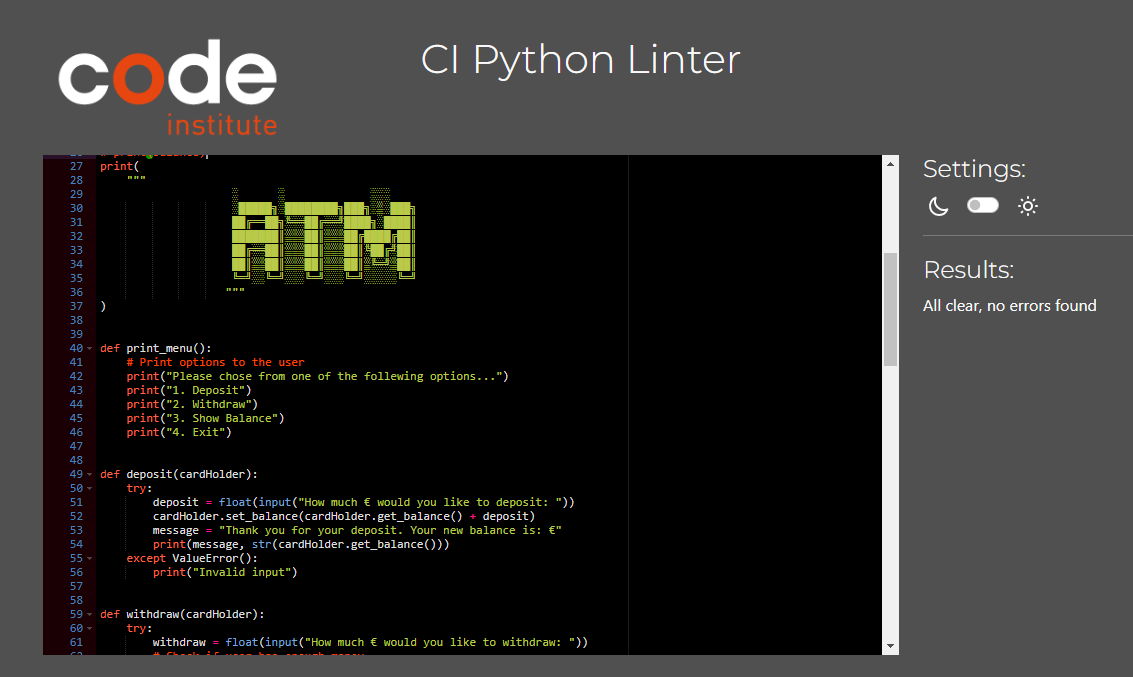
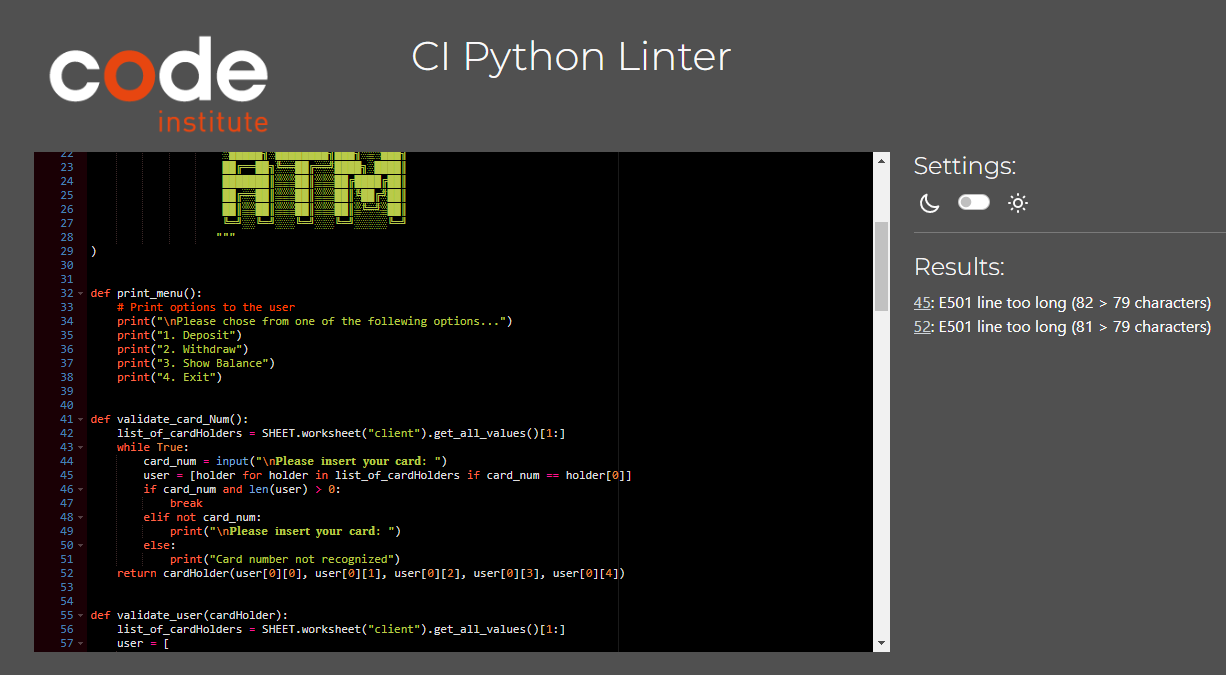
updating README

Changed region(s): [[0.0, 0.0622, 0.9885, 0.9644], [0.3398, 0.0622, 0.6487, 0.1244]]

diff --git a/run.py b/run.py
@@ -17,7 +17,6 @@ GSPREAD_CLIENT = gspread.authorize(SCOPED_CREDS)
 SHEET = GSPREAD_CLIENT.open("client_database")
 
 
-
 print(
     """
                     ░█████╗░████████╗███╗░░░███╗
@@ -30,117 +29,138 @@ print(
 )
 
 
-
 def print_menu():
-  # Print options to the user
-  print("\nPlease chose from one of the follewing options...")
-  print("1. Deposit")
-  print("2. Withdraw")
-  print("3. Show Balance")
-  print("4. Exit")
+    # Print options to the user
+    print("\nPlease chose from one of the follewing options...")
+    print("1. Deposit")
+    print("2. Withdraw")
+    print("3. Show Balance")
+    print("4. Exit")
+
 
 def validate_card_Num():
     list_of_cardHolders = SHEET.worksheet("client").get_all_values()[1:]
     while True:
-      card_num = input("\nEnter card number: ")
-      user = [ holder for holder in list_of_cardHolders if card_num == holder[0]]
-      if card_num and len(user) > 0:
-        break
-      elif not card_num:
-        print("\n𝐏𝐥𝐞𝐚𝐬𝐞 𝐢𝐧𝐬𝐞𝐫𝐭 𝐲𝐨𝐮𝐫 𝐝𝐞𝐛𝐢𝐭 𝐜𝐚𝐫𝐝: ")
-      else:
-        print("Card number not recognized")
+        card_num = input("\n𝐏𝐥𝐞𝐚𝐬𝐞 𝐢𝐧𝐬𝐞𝐫𝐭 𝐲𝐨𝐮𝐫 𝐜𝐚𝐫𝐝: ")
+        user = [holder for holder in list_of_cardHolders if card_num == holder[0]]
+        if card_num and len(user) > 0:
+            break
+        elif not card_num:
+            print("\n𝐏𝐥𝐞𝐚𝐬𝐞 𝐢𝐧𝐬𝐞𝐫𝐭 𝐲𝐨𝐮𝐫 𝐜𝐚𝐫𝐝: ")
+        else:
+            print("Card number not recognized")
     return cardHolder(user[0][0], user[0][1], user[0][2], user[0][3], user[0][4])
 
+
 def validate_user(cardHolder):
-  list_of_cardHolders = SHEET.worksheet("client").get_all_values()[1:]
-  user = [holder for holder in list_of_cardHolders if cardHolder.get_cardNum() == holder[0]]
-  tries = 0
-  while tries < 3:
-    tries += 1
-    pin_code = input("\n𝗣𝗹𝗲𝗮𝘀𝗲 𝗲𝗻𝘁𝗲𝗿 𝘆𝗼𝘂𝗿 𝗣𝗜𝗡: ")
-    if not pin_code:
-      print("\nPlease enter PIN, try again.")
-      status = False
-    elif not pin_code.isnumeric():
-      print("Only numbers allowed")
-      status = False
-    elif pin_code.isnumeric() and pin_code == user[0][1]:
-      status = True
-      break
-    elif tries == 3:
-      print("Sorry you've exceeded you trial limit")
-      status = False
-      break
-    else:
-      print("Incorrect PIN.")
-      status = False
-    
-  return status
+    list_of_cardHolders = SHEET.worksheet("client").get_all_values()[1:]
+    user = [
+        holder
+        for holder in list_of_cardHolders
+        if cardHolder.get_cardNum() == holder[0]
+    ]
+    tries = 0
+    while tries < 3:
+        tries += 1
+        pin_code = input("\n𝗣𝗹𝗲𝗮𝘀𝗲 𝗲𝗻𝘁𝗲𝗿 𝘆𝗼𝘂𝗿 𝗣𝗜𝗡: ")
+        if not pin_code:
+            print("\nPlease enter PIN, try again.")
+            status = False
+        elif not pin_code.isnumeric():
+            print("Only numbers allowed")
+            status = False
+        elif pin_code.isnumeric() and pin_code == user[0][1]:
+            status = True
+            break
+        elif tries == 3:
+            print("Sorry you've exceeded you trial limit")
+            status = False
+            break
+        else:
+            print("Incorrect PIN.")
+            status = False
+    return status
 
 
 def deposit(cardHolder):
-  list_of_cardHolders = SHEET.worksheet("client").get_all_values()[1:]
-  user = [holder for holder in list_of_cardHolders if cardHolder.get_cardNum() == holder[0]]
-  while True:
-    amount = input("How much would you like to deposit: €")
-    if not amount:
-      print("Please enter an amount, try again.")
-      status = False
-    elif not amount.isnumeric():
-      print("Enter only amount in figures.")
-      status = False
-    else:
-      status = True
-      new_balance = float(cardHolder.get_balance()) + float(amount)
-      cardHolder.set_balance(new_balance)
-      cur_user = SHEET.worksheet('client').find(user[0][0])
-      SHEET.worksheet('client').update_cell(cur_user.row, 5, new_balance)
-      print("\nSuccessfully deposited to your account.")
-      break
-  return True
+    list_of_cardHolders = SHEET.worksheet("client").get_all_values()[1:]
+    user = [
+        holder
+        for holder in list_of_cardHolders
+        if cardHolder.get_cardNum() == holder[0]
+    ]
+    while True:
+        amount = input("How much would you like to deposit: € ")
+        if not amount:
+            print("Please enter an amount, try again.")
+            status = False
+        elif not amount.isnumeric():
+            print("Enter only amount in figures.")
+            status = False
+        else:
+            status = True
+            new_balance = float(cardHolder.get_balance()) + float(amount)
+            cardHolder.set_balance(new_balance)
+            cur_user = SHEET.worksheet("client").find(user[0][0])
+            SHEET.worksheet("client").update_cell(cur_user.row, 5, new_balance)
+            print("\nSuccessfully deposited to your account.")
+            break
+    return True
+
 
 def withdraw(cardHolder):
-  list_of_cardHolders = SHEET.worksheet("client").get_all_values()[1:]
-  user = [holder for holder in list_of_cardHolders if cardHolder.get_cardNum() == holder[0]]
-  while True:
-    amount = input("How much would you like to withdraw: €")
-    if not amount:
-      print("Please enter an amount you would like to withdraw, try again.")
-      status = False
-    elif not amount.isnumeric():
-      print("Enter only amount in figures.")
-      status = False
-    elif float(cardHolder.get_balance()) < float(amount):
-      print("Insufficient balance. Try again.")
-      status = False
-
-    else:
-      status = True
-      new_balance = float(cardHolder.get_balance()) - float(amount)
-      cardHolder.set_balance(new_balance)
-      cur_user = SHEET.worksheet('client').find(user[0][0])
-      SHEET.worksheet('client').update_cell(cur_user.row, 5, new_balance)
-      print("Successfully withdraw from your account.")
-      break
-  return True
+    list_of_cardHolders = SHEET.worksheet("client").get_all_values()[1:]
+    user = [
+        holder
+        for holder in list_of_cardHolders
+        if cardHolder.get_cardNum() == holder[0]
+    ]
+    while True:
+        amount = input("How much would you like to withdraw: € ")
+        if not amount:
+            print("Please enter an amount to withdraw, try again.")
+            status = False
+        elif not amount.isnumeric():
+            print("Enter only amount in figures.")
+            status = False
+        elif float(cardHolder.get_balance()) < float(amount):
+            print("Insufficient balance. Try again.")
+            status = False
+        else:
+            status = True
+            new_balance = float(cardHolder.get_balance()) - float(amount)
+            cardHolder.set_balance(new_balance)
+            cur_user = SHEET.worksheet("client").find(user[0][0])
+            SHEET.worksheet("client").update_cell(cur_user.row, 5, new_balance)
+            print("Successfully withdraw from your account.")
+            break
+    return True
 
 
 def show_balance(cardHolder):
-  list_of_cardHolders = SHEET.worksheet("client").get_all_values()[1:]
-  user = [holder for holder in list_of_cardHolders if cardHolder.get_cardNum() == holder[0]]
-  return user[0][4]
+    list_of_cardHolders = SHEET.worksheet("client").get_all_values()[1:]
+    user = [
+        holder
+        for holder in list_of_cardHolders
+        if cardHolder.get_cardNum() == holder[0]
+    ]
+    return user[0][4]
+
 
 def show_user_name(cardHolder):
-  list_of_cardHolders = SHEET.worksheet("client").get_all_values()[1:]
-  user = [holder for holder in list_of_cardHolders if cardHolder.get_cardNum() == holder[0]]
-  return user[0][2]
+    list_of_cardHolders = SHEET.worksheet("client").get_all_values()[1:]
+    user = [
+        holder
+        for holder in list_of_cardHolders
+        if cardHolder.get_cardNum() == holder[0]
+    ]
+    return user[0][2]
+
 
 current_user = validate_card_Num()
 
-print(validate_user(current_user))
-print(show_balance(current_user))
-
+# print(validate_user(current_user))
+# print(show_balance(current_user))
 
 
 print("\nWelcome ", show_user_name(current_user), " :)")
@@ -162,4 +182,4 @@ while True:
         break
     else:
         option = 0
-print("\nThank you. Have a nice time :)")
+print("\nThank you. Have a nice time!! :)")
